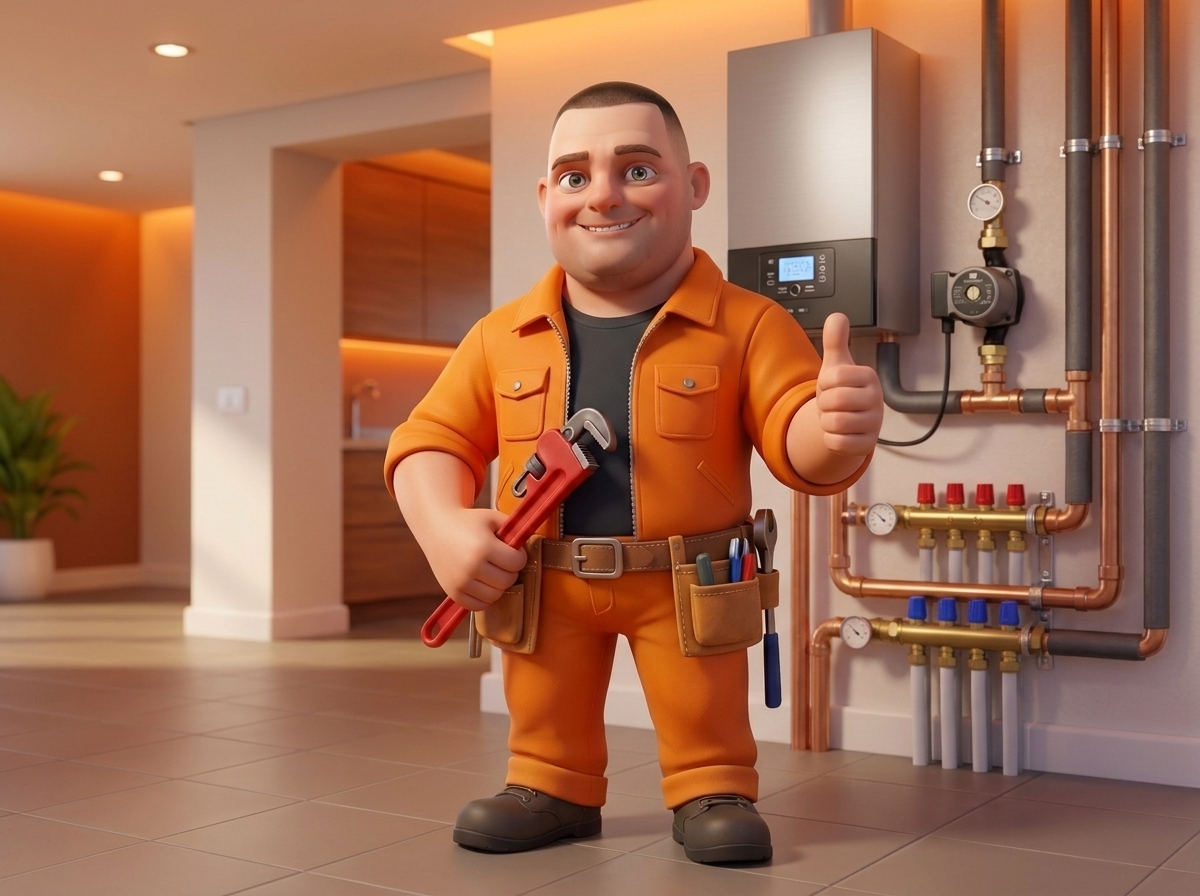
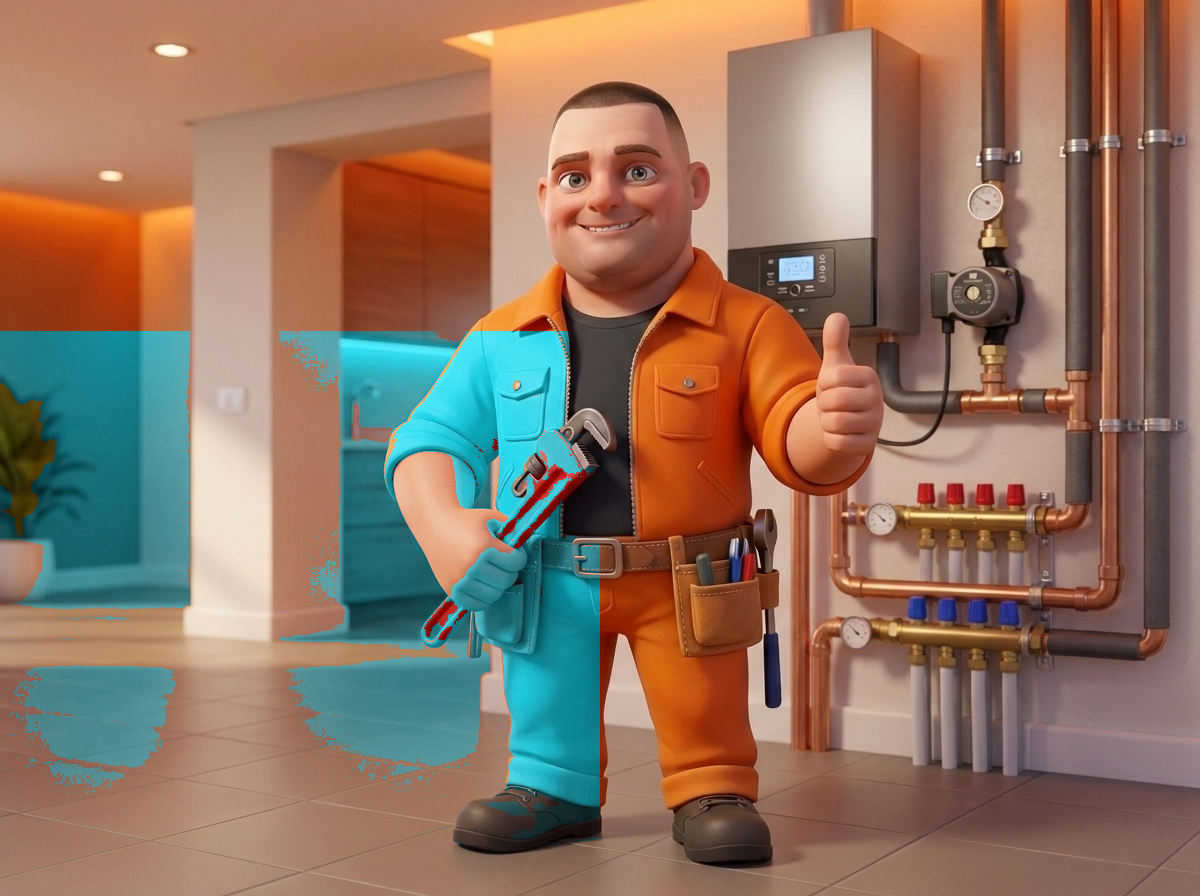
Dopasowanie stroju hydraulika do motywu jasnoniebieskiego/cyjan oraz zmiana hasła na 'USŁUGI FACHOWE'

Changed region(s): [[0.2158, 0.3438, 0.5242, 0.9375], [0.0, 0.3438, 0.185, 0.6875], [0.0, 0.7188, 0.1542, 0.875]]

diff --git a/generate_infographics.py b/generate_infographics.py
@@ -331,7 +331,7 @@ def generate_circle_quad():
     w_logo = draw.textlength(txt_logo, font=font_center_title)
     draw.text((center_x - w_logo / 2, center_y - 118), txt_logo, font=font_center_title, fill=(255, 255, 255))
     
-    txt_sub = "MARCIN • USŁUGI MOBILNE"
+    txt_sub = "MARCIN • USŁUGI FACHOWE"
     w_sub = draw.textlength(txt_sub, font=font_center_sub)
     draw.text((center_x - w_sub / 2, center_y - 65), txt_sub, font=font_center_sub, fill=(226, 232, 240))
     
